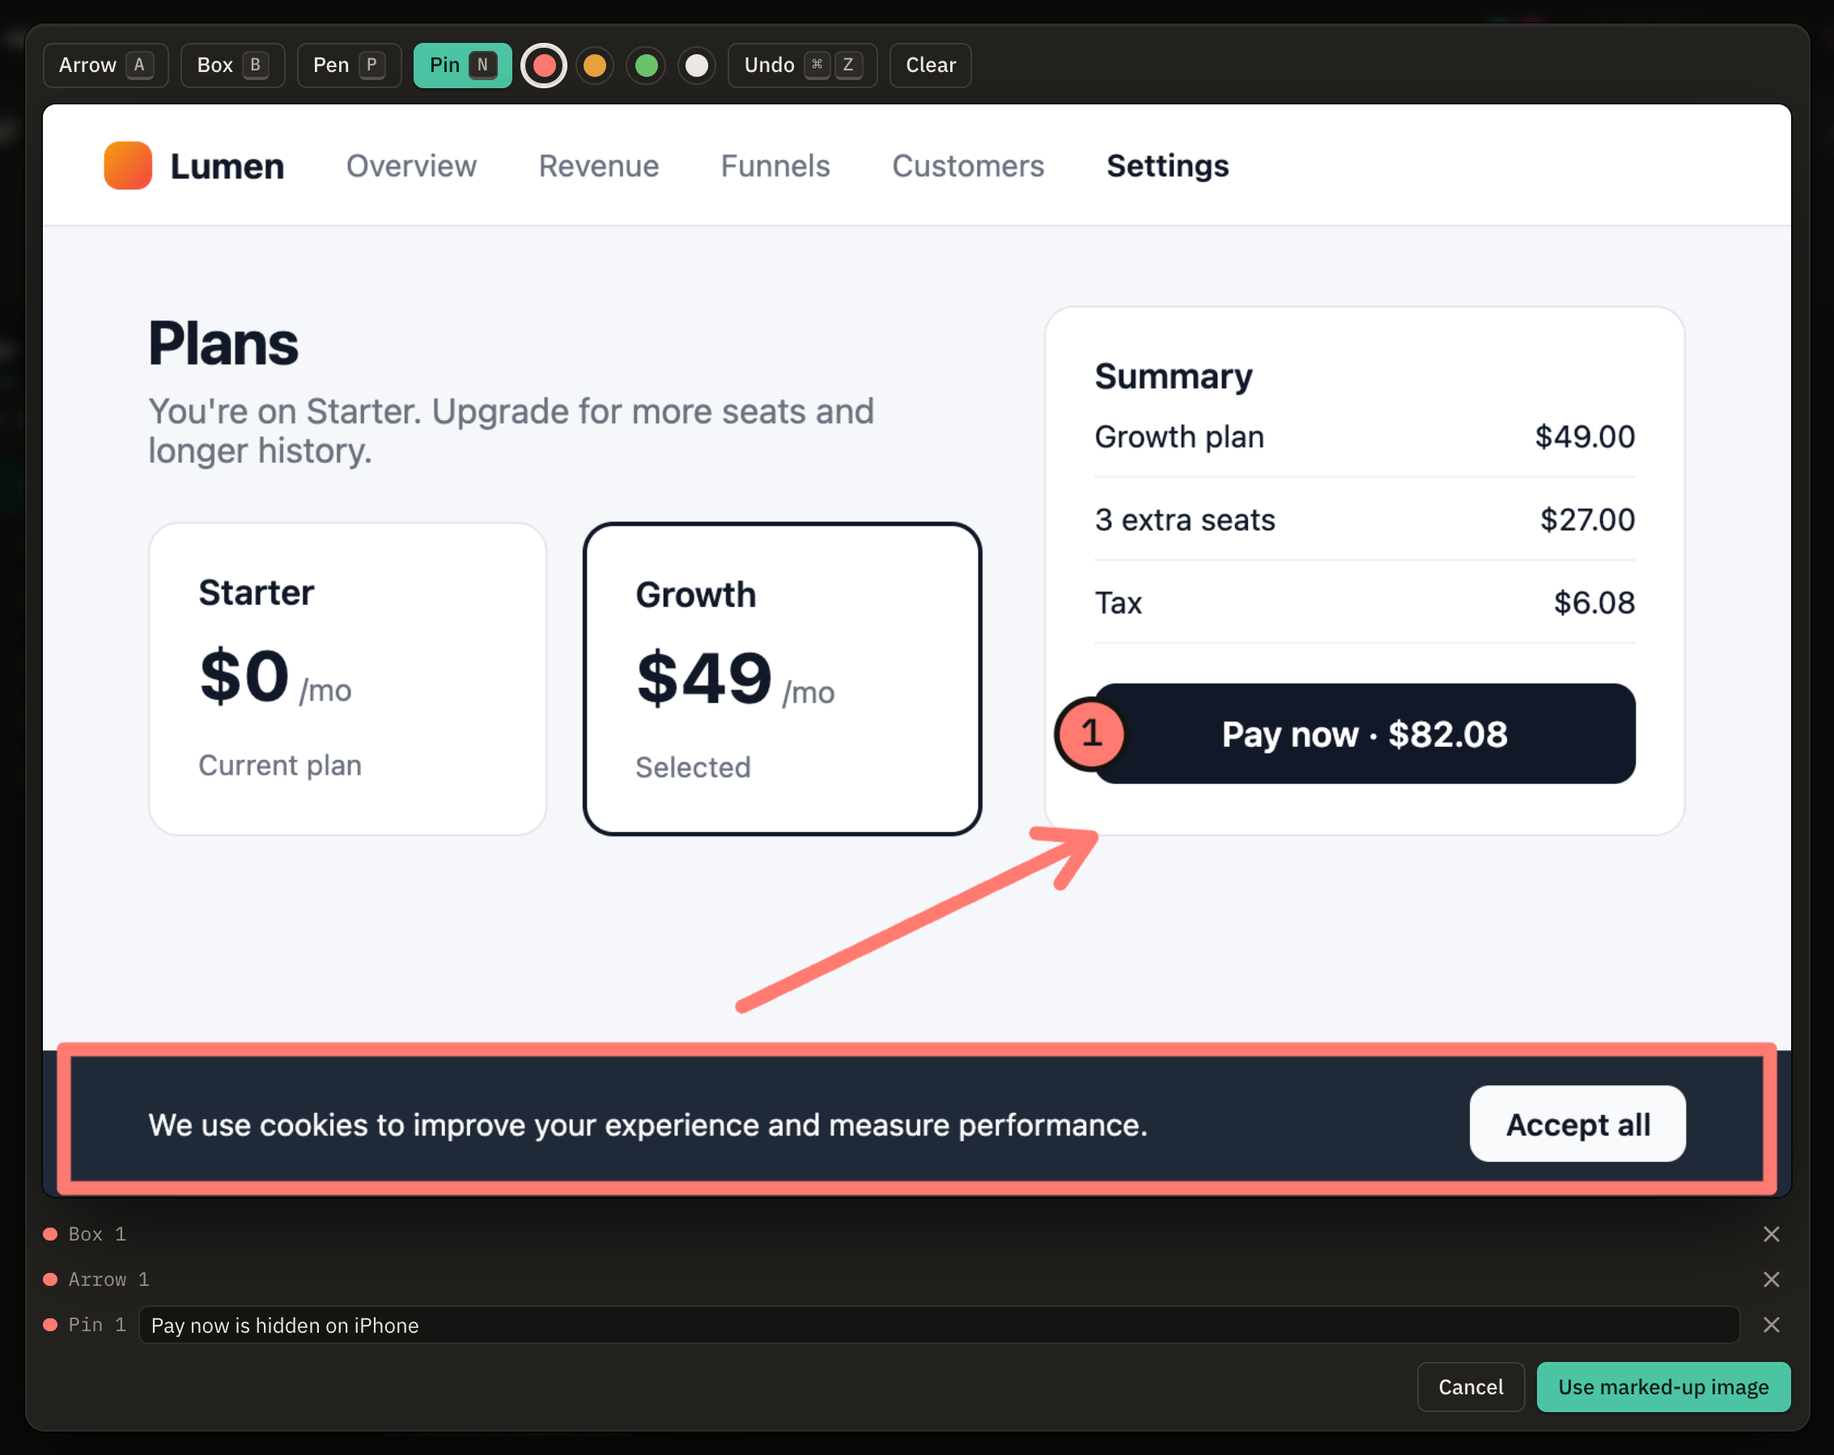
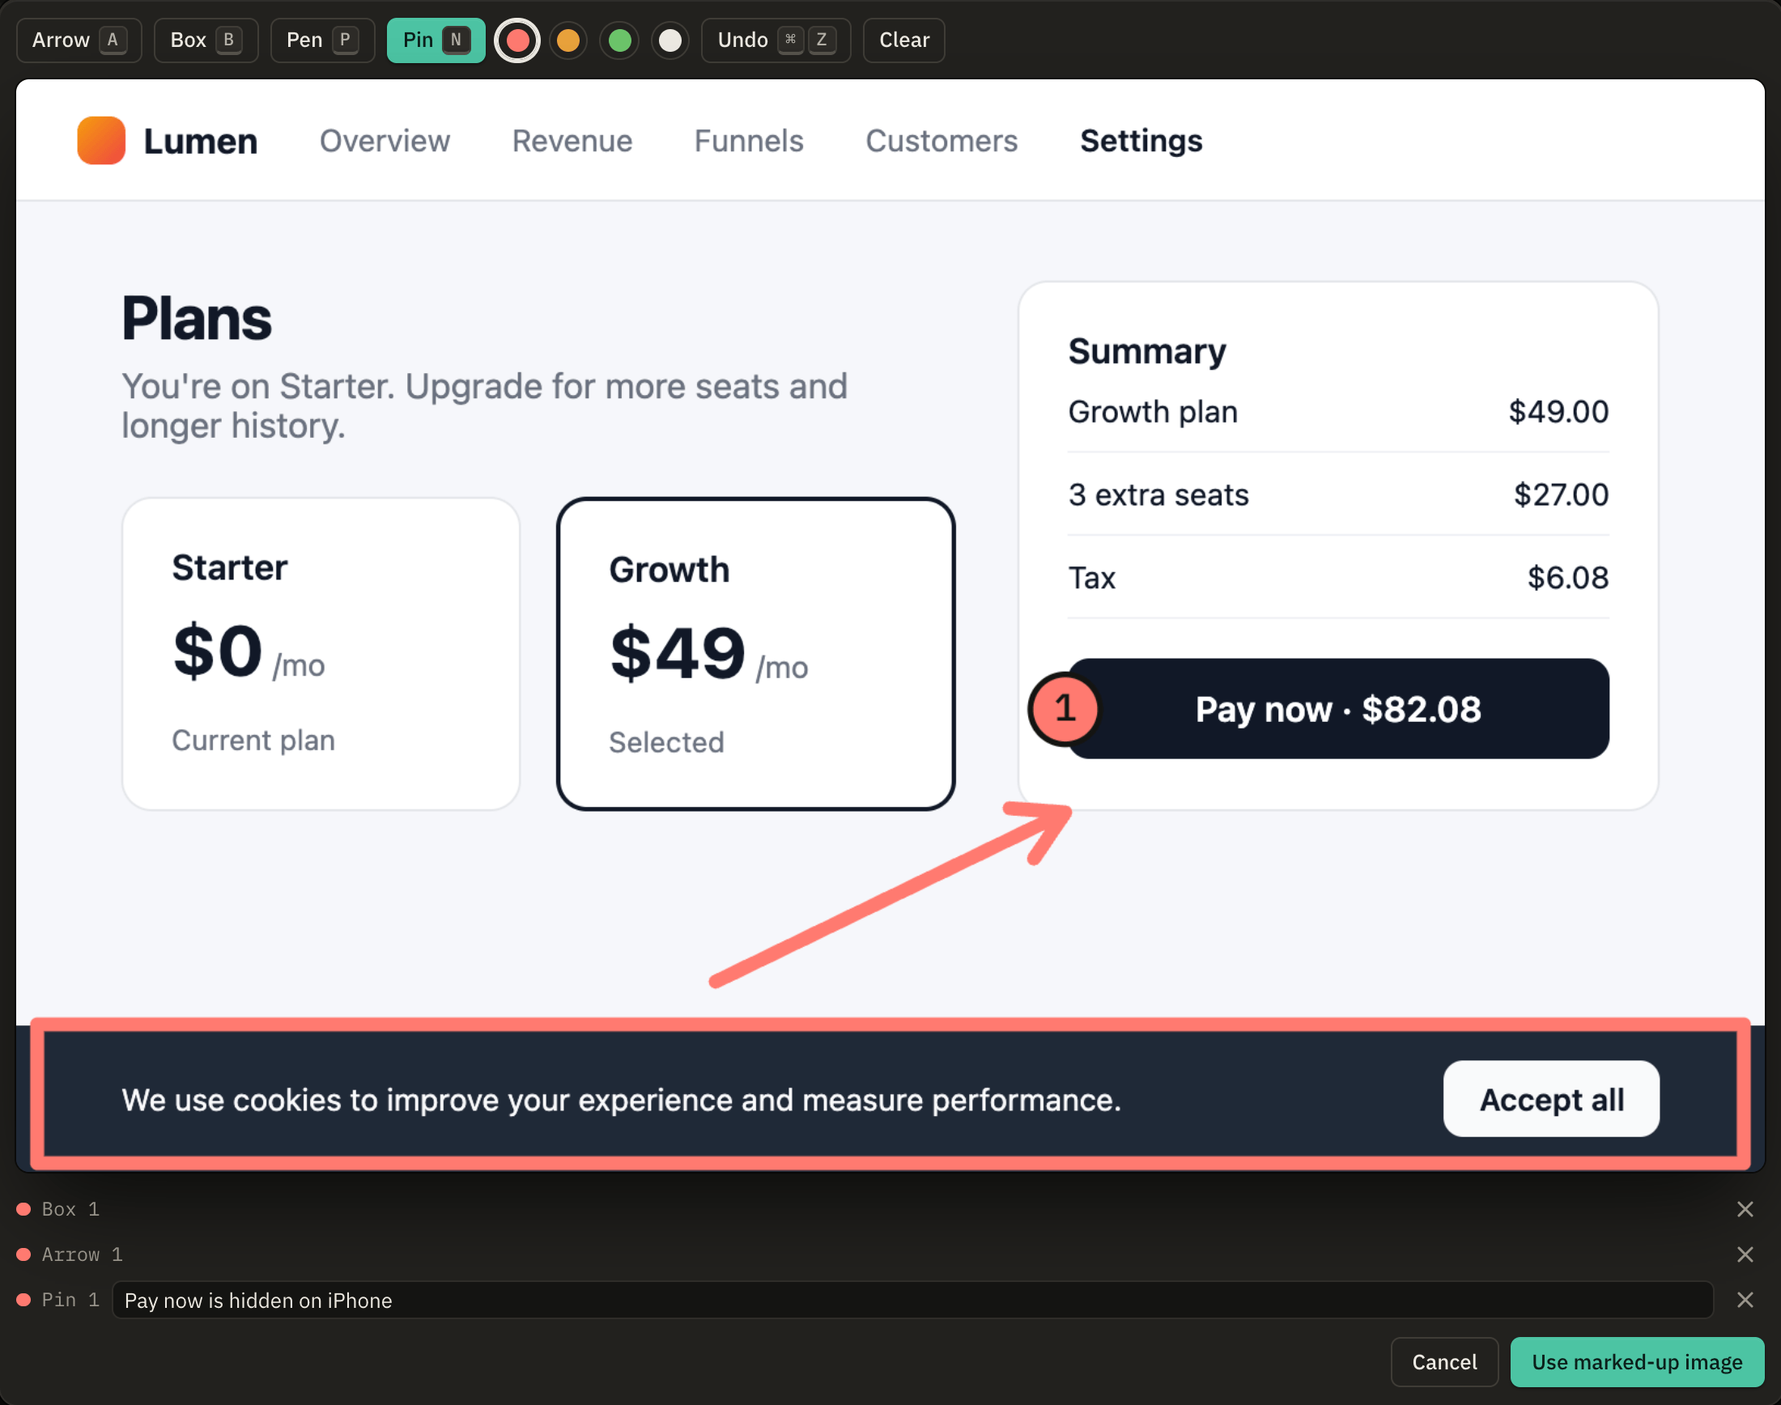
v2.0.2: public polish — contained hero, step crops, key grid, wrapped self-host code, status Not checked

diff --git a/src/components/landing/Hero.tsx b/src/components/landing/Hero.tsx
@@ -18,53 +18,43 @@ export function Hero({ theme }: { theme: ResolvedTheme }) {
         aria-hidden="true"
         className="mk-ruled pointer-events-none absolute inset-0 -z-10 opacity-40"
       />
-      <div
-        className={cn(
-          MK_CONTAINER,
-          'grid gap-y-14 pt-14 pb-16 sm:pt-20 lg:pb-24 xl:grid-cols-12 xl:items-center xl:gap-x-8 xl:pt-24 xl:pb-28',
-        )}
-      >
-        <div className="relative z-10 xl:col-span-5">
+      <div className={cn(MK_CONTAINER, 'pt-14 pb-16 sm:pt-20 lg:pb-24 xl:pt-24 xl:pb-28')}>
+        {/* Copy on top, the full product frame below it: the headline and the pitch sit side by side
+            from 1280px, so the screenshot can take the whole grid width and no control is cut. */}
+        <div className="grid gap-y-6 xl:grid-cols-12 xl:items-end xl:gap-x-8">
           <h1
             id="hero-heading"
-            className="text-[2.75rem]/[2.9rem] font-semibold tracking-[-0.035em] text-balance sm:text-display-m lg:text-display-l"
+            className="text-[2.75rem]/[2.9rem] font-semibold tracking-[-0.035em] text-balance sm:text-display-m lg:text-display-l xl:col-span-7"
           >
             Bug reports your cofounder actually reads.
           </h1>
-          <p className="mt-6 max-w-[44ch] text-read text-pretty text-ink-2 sm:text-lg sm:leading-8 2xl:mt-8 2xl:text-[1.2857rem] 2xl:leading-[2.1429rem]">
-            A bug tracker for teams of 2–10. Paste a screenshot, say what broke, press Enter: it is
-            on your teammate’s screen about a second later, and Claude Code can fix it from there.
-          </p>
-          <TypedSpecimenLabel delay={200} lines={HERO_LABEL} className="mt-8" />
-          <div className="mt-8 flex flex-wrap items-center gap-3">
-            <OpenWorkspaceLink size="lg" />
-            <a href="#self-host" className={buttonClass('secondary', 'lg')}>
-              Self-host it
-            </a>
+          <div className="xl:col-span-5 xl:pb-2">
+            <p className="max-w-[44ch] text-read text-pretty text-ink-2 sm:text-lg sm:leading-8 2xl:text-[1.2857rem] 2xl:leading-[2.1429rem]">
+              A bug tracker for teams of 2–10. Paste a screenshot, say what broke, press Enter: it
+              is on your teammate’s screen about a second later, and Claude Code can fix it from
+              there.
+            </p>
+            <div className="mt-8 flex flex-wrap items-center gap-3">
+              <OpenWorkspaceLink size="lg" />
+              <a href="#self-host" className={buttonClass('secondary', 'lg')}>
+                Self-host it
+              </a>
+            </div>
+            <SpecimenLabel
+              segments={[facts.license, 'Self-host on Supabase', 'No trackers']}
+              className="mt-6 text-ink-3"
+            />
           </div>
-          <SpecimenLabel
-            segments={[facts.license, 'Self-host on Supabase', 'No trackers']}
-            className="mt-6 text-ink-3"
-          />
         </div>
-        {/* Bleeds off the right edge: the bug list stays readable, the detail pane runs out of frame.
-            From 1280px the copy is centred on the shot so neither column leaves a dead block. */}
-        <div className="xl:col-span-7 xl:col-start-6">
-          <div
-            className="mk-rise w-[175%] sm:w-[130%] lg:w-[115%] xl:w-[64vw]"
-            style={{ '--mk-delay': '520ms' } as CSSProperties}
-          >
-            <DrawerFrame>
-              <ShotImage shot={HERO_SHOT} theme={theme} lazy={false} />
-            </DrawerFrame>
-          </div>
+        {/* The whole workspace, contained in the grid at every width: list, detail and controls. */}
+        <div className="mk-rise mt-14 lg:mt-20" style={{ '--mk-delay': '520ms' } as CSSProperties}>
+          {/* The specimen label of the bug open in the frame, pinned above it like a drawer tag. */}
+          <TypedSpecimenLabel delay={200} lines={HERO_LABEL} className="mb-4" />
+          <DrawerFrame>
+            <ShotImage shot={HERO_SHOT} theme={theme} lazy={false} />
+          </DrawerFrame>
         </div>
       </div>
-      {/* Fades the bleed so the screenshot runs out of frame instead of being cut mid-word. */}
-      <div
-        aria-hidden="true"
-        className="pointer-events-none absolute inset-y-0 right-0 z-10 w-16 bg-linear-to-l from-bg to-transparent sm:w-28"
-      />
     </section>
   )
 }

diff --git a/src/lib/statusChecks.ts b/src/lib/statusChecks.ts
@@ -1,7 +1,7 @@
 // Client-side reachability checks for the /status page: the app origin, the Supabase REST API
 // and a Supabase Realtime connection, each timed from this browser. Deliberately independent of
 // lib/supabase.ts (which throws without configuration), so the page works on a build without
-// Supabase settings and reports those two checks as not configured.
+// a real Supabase project and reports those two checks as not checked.
 
 export type CheckState = 'ok' | 'down' | 'unconfigured'
 
@@ -23,13 +23,36 @@ export const CHECK_TIMEOUT_MS = 8000
 type Clock = () => number
 const defaultClock: Clock = () => performance.now()
 
-/** The Supabase settings baked into this build, or nulls when they are missing or blank. */
+/**
+ * Settings that cannot point at a real project: CI's `ci-placeholder` values, or a supabase.co
+ * host whose project ref is not the 20 lowercase letters and digits Supabase assigns (the demo
+ * build's `demo.supabase.co`). Probing them would only ever fail, which is not an outage.
+ */
+export function isPlaceholderSupabase(url: string, key: string): boolean {
+  if (/placeholder/i.test(url) || /placeholder/i.test(key)) return true
+  let host: string
+  try {
+    host = new URL(url).hostname.toLowerCase()
+  } catch {
+    return true
+  }
+  if (!host.endsWith('.supabase.co')) return false
+  return !/^[a-z0-9]{20}$/.test(host.slice(0, -'.supabase.co'.length))
+}
+
+/**
+ * The Supabase settings baked into this build, or nulls when they are missing, blank or
+ * placeholders, so the page says it did not check instead of reporting a failure.
+ */
 export function statusConfig(
   env: Record<string, string | undefined>,
   appOrigin: string,
 ): StatusConfig {
   const url = env.VITE_SUPABASE_URL?.trim().replace(/\/+$/, '') || null
   const key = env.VITE_SUPABASE_ANON_KEY?.trim() || null
+  if (!url || !key || isPlaceholderSupabase(url, key)) {
+    return { appOrigin, supabaseUrl: null, anonKey: null }
+  }
   return { appOrigin, supabaseUrl: url, anonKey: key }
 }
 
@@ -87,7 +110,11 @@ export async function checkRest(
   now: Clock = defaultClock,
 ): Promise<CheckResult> {
   if (!config.supabaseUrl || !config.anonKey) {
-    return { state: 'unconfigured', ms: null, detail: 'This build has no Supabase settings' }
+    return {
+      state: 'unconfigured',
+      ms: null,
+      detail: 'This build has no Supabase project to check',
+    }
   }
   const { response, ms, error } = await timedFetch(
     `${config.supabaseUrl}/rest/v1/`,
@@ -135,7 +162,7 @@ export function checkRealtime(
     return Promise.resolve({
       state: 'unconfigured',
       ms: null,
-      detail: 'This build has no Supabase settings',
+      detail: 'This build has no Supabase project to check',
     })
   }
   return new Promise((resolve) => {

diff --git a/src/components/landing/Depth.tsx b/src/components/landing/Depth.tsx
@@ -84,13 +84,13 @@ function CopyBlock({ step }: { step: SelfHostStep }) {
 
   const shell = !step.command.includes('=')
   return (
-    // The button sits beside the code, not over it, so a long line scrolls under a fade instead
-    // of under the button.
+    // The button sits beside the code, not over it. Long lines wrap (never clip at 375px) with a
+    // hanging indent, so a continuation never reads as a new command or a new variable.
     <div className="mt-4 flex items-start rounded-lg border border-line bg-surface-1">
-      <pre className="mk-scroll-mask min-w-0 flex-1 overflow-x-auto py-3.5 pr-4 pl-4 text-sm leading-6 text-ink">
+      <pre className="min-w-0 flex-1 py-3.5 pr-2 pl-4 text-sm leading-6 whitespace-pre-wrap text-ink wrap-anywhere">
         <code>
           {step.command.split('\n').map((line) => (
-            <span key={line} className="block">
+            <span key={line} className="block pl-[2ch] -indent-[2ch]">
               {shell && (
                 <span aria-hidden="true" className="text-ink-3 select-none">
                   ${' '}
@@ -145,22 +145,24 @@ export function Depth() {
             </SectionHead>
           </Reveal>
           <Reveal delay={80}>
+            {/* Three columns at most: the 18 keys in the app fill every row at 2 and at 3 columns.
+                Each key sits in a fixed slot right before its label instead of across the cell. */}
             <ul
               aria-label="Keyboard shortcuts"
-              className="mt-10 grid grid-cols-1 border-t border-line sm:grid-cols-2 lg:grid-cols-3 xl:grid-cols-4"
+              className="mt-10 grid grid-cols-1 border-t border-line sm:grid-cols-2 sm:gap-x-10 lg:grid-cols-3"
             >
               {facts.shortcuts.map((shortcut) => (
                 <li
                   key={shortcut.label}
-                  className="flex min-h-12 items-center justify-between gap-4 border-b border-line py-2 sm:pr-6"
+                  className="grid min-h-12 grid-cols-[5rem_minmax(0,1fr)] items-center gap-4 border-b border-line py-2"
                 >
-                  <span className="text-sm text-ink-2">
-                    {shortcut.label.replace(/\s*\([^)]*\)/g, '')}
-                  </span>
-                  <span className="flex shrink-0 gap-1">
+                  <span className="flex justify-end gap-1">
                     {shortcut.keys.map((key, i) => (
                       <Kbd key={i}>{keyLabel(key)}</Kbd>
                     ))}
+                  </span>
+                  <span className="text-sm text-ink-2">
+                    {shortcut.label.replace(/\s*\([^)]*\)/g, '')}
                   </span>
                 </li>
               ))}

diff --git a/src/lib/statusChecks.test.ts b/src/lib/statusChecks.test.ts
@@ -4,13 +4,17 @@ import {
   checkApp,
   checkRealtime,
   checkRest,
+  isPlaceholderSupabase,
   realtimeUrl,
   statusConfig,
   type SocketLike,
 } from './statusChecks'
 
 const configured = statusConfig(
-  { VITE_SUPABASE_URL: 'https://abc.supabase.co/', VITE_SUPABASE_ANON_KEY: 'anon key' },
+  {
+    VITE_SUPABASE_URL: 'https://abcdefghijklmnopqrst.supabase.co/',
+    VITE_SUPABASE_ANON_KEY: 'anon key',
+  },
   'https://squash.test',
 )
 
@@ -51,7 +55,25 @@ describe('statusConfig', () => {
       supabaseUrl: null,
       anonKey: null,
     })
-    expect(configured.supabaseUrl).toBe('https://abc.supabase.co')
+    expect(configured.supabaseUrl).toBe('https://abcdefghijklmnopqrst.supabase.co')
+  })
+
+  it('treats placeholder settings as unconfigured, so nothing is probed', () => {
+    for (const [url, key] of [
+      ['https://ci-placeholder.supabase.co', 'ci-placeholder-anon-key'],
+      ['https://demo.supabase.co', 'demo'],
+      ['https://abcdefghijklmnopqrst.supabase.co', 'placeholder'],
+      ['not a url', 'key'],
+    ]) {
+      expect(isPlaceholderSupabase(url, key)).toBe(true)
+      expect(
+        statusConfig({ VITE_SUPABASE_URL: url, VITE_SUPABASE_ANON_KEY: key }, 'o'),
+      ).toMatchObject({ supabaseUrl: null, anonKey: null })
+    }
+    // A real project ref, a self-hosted instance and a custom domain are all probed.
+    expect(isPlaceholderSupabase('https://abcdefghijklmnopqrst.supabase.co', 'eyJ.a.b')).toBe(false)
+    expect(isPlaceholderSupabase('http://127.0.0.1:54321', 'eyJ.a.b')).toBe(false)
+    expect(isPlaceholderSupabase('https://db.example.com', 'sb_publishable_x')).toBe(false)
   })
 })
 
@@ -102,7 +124,7 @@ describe('checkRest', () => {
     expect(result).toEqual({
       state: 'unconfigured',
       ms: null,
-      detail: 'This build has no Supabase settings',
+      detail: 'This build has no Supabase project to check',
     })
     expect(fetchImpl).not.toHaveBeenCalled()
   })
@@ -115,7 +137,7 @@ describe('checkRest', () => {
       detail: 'Answered HTTP 401',
     })
     expect(fetchImpl).toHaveBeenCalledWith(
-      'https://abc.supabase.co/rest/v1/',
+      'https://abcdefghijklmnopqrst.supabase.co/rest/v1/',
       expect.objectContaining({ headers: { apikey: 'anon key' } }),
     )
     expect(
@@ -127,7 +149,7 @@ describe('checkRest', () => {
 describe('checkRealtime', () => {
   it('builds the websocket URL with an encoded key', () => {
     expect(realtimeUrl(configured)).toBe(
-      'wss://abc.supabase.co/realtime/v1/websocket?apikey=anon%20key&vsn=1.0.0',
+      'wss://abcdefghijklmnopqrst.supabase.co/realtime/v1/websocket?apikey=anon%20key&vsn=1.0.0',
     )
   })
 

diff --git a/src/pages/Status.tsx b/src/pages/Status.tsx
@@ -47,12 +47,13 @@ type Results = Partial<Record<CheckDef['id'], CheckResult>>
 const STATE_LABEL: Record<CheckResult['state'] | 'checking', string> = {
   ok: 'Reachable',
   down: 'Not reachable',
-  unconfigured: 'Not configured',
+  unconfigured: 'Not checked',
   checking: 'Checking…',
 }
 
 function Glyph({ state }: { state: CheckResult['state'] | 'checking' }) {
-  // Status glyphs from the app: hollow ring (pending), filled check (ok), cross (down).
+  // Status glyphs from the app: dashed ring (checking), filled check (ok), cross (down); a ring
+  // with a dash is "not checked", neutral rather than red, since nothing was probed.
   if (state === 'ok') {
     return (
       <svg viewBox="0 0 16 16" className="size-4 text-success" aria-hidden="true">
@@ -92,6 +93,9 @@ function Glyph({ state }: { state: CheckResult['state'] | 'checking' }) {
         strokeWidth="1.5"
         strokeDasharray={state === 'checking' ? '3 2.5' : undefined}
       />
+      {state === 'unconfigured' && (
+        <path d="M5.5 8h5" stroke="currentColor" strokeWidth="1.5" strokeLinecap="round" />
+      )}
     </svg>
   )
 }
@@ -102,8 +106,7 @@ function summary(results: Results, running: boolean): string {
   const down = values.filter((r) => r.state === 'down').length
   const skipped = values.filter((r) => r.state === 'unconfigured').length
   if (down === 0 && skipped === 0) return 'Everything answered.'
-  if (down === 0)
-    return `Reachable. ${skipped} of ${CHECKS.length} checks are not configured on this build.`
+  if (down === 0) return `Reachable. ${skipped} of ${CHECKS.length} not checked on this build.`
   return `${down} of ${CHECKS.length} ${down === 1 ? 'check' : 'checks'} failed from your browser.`
 }
 

diff --git a/src/pages/MarketingPages.test.tsx b/src/pages/MarketingPages.test.tsx
@@ -183,7 +183,7 @@ describe('marketing pages', () => {
 })
 
 describe('status page', () => {
-  it('degrades to "not configured" without Supabase settings and still times the app', async () => {
+  it('degrades to a neutral "not checked" without Supabase settings and still times the app', async () => {
     vi.stubEnv('VITE_SUPABASE_URL', '')
     vi.stubEnv('VITE_SUPABASE_ANON_KEY', '')
     const fetchMock = vi.fn(
@@ -193,11 +193,11 @@ describe('status page', () => {
     const { container } = renderAt('/status', '/status', Status)
     expect(container.textContent).toMatch(/checked from your browser/i)
     await waitFor(() => expect(screen.getByRole('button', { name: 'Check again' })).toBeEnabled())
-    expect(screen.getAllByText('Not configured')).toHaveLength(2)
+    expect(screen.getAllByText('Not checked')).toHaveLength(2)
     expect(screen.getByText('Reachable')).toBeInTheDocument()
     expect(
-      screen.getByRole('heading', { level: 2, name: /not configured on this build/ }),
-    ).toBeInTheDocument()
+      screen.getByRole('heading', { level: 2, name: /2 of 3 not checked on this build/ }),
+    ).not.toHaveClass('text-danger')
     // Only the app's own origin was contacted.
     expect(fetchMock).toHaveBeenCalledTimes(1)
     expect(String(fetchMock.mock.calls[0][0])).toMatch(/\/manifest\.webmanifest$/)

diff --git a/src/components/landing/content.ts b/src/components/landing/content.ts
@@ -68,8 +68,9 @@ export const CHAPTERS: Chapter[] = [
       alt: 'The capture bar holding a typed description and an attached screenshot, above the live bug list',
     },
     marker: {
-      d: 'M262 48 C 520 40, 900 42, 1142 50 C 1150 96, 1148 150, 1140 188 C 900 194, 520 192, 266 186 C 258 140, 256 96, 266 44',
-      label: 'The capture bar',
+      // Rings the typed description and the pasted screenshot's thumbnail, not the empty input.
+      d: 'M80 62 C 200 52, 380 54, 490 60 C 498 100, 496 148, 488 180 C 380 188, 200 186, 84 180 C 76 142, 74 100, 86 56',
+      label: 'The description and the pasted screenshot',
     },
   },
   {
@@ -87,11 +88,12 @@ export const CHAPTERS: Chapter[] = [
       name: 'annotate',
       themed: true,
       width: 1400,
-      height: 1111,
+      height: 1105,
       alt: 'The mark-up editor over a checkout page: a red box around a cookie banner and an arrow pointing at the Pay now button',
     },
     marker: {
-      d: 'M58 72 C 52 40, 300 34, 308 64 C 314 98, 70 104, 56 78 C 50 62, 110 44, 190 44',
+      // Underlines the Arrow, Box and Pen buttons, which sit flush with the top of the crop.
+      d: 'M16 56 C 90 52, 200 58, 292 54',
       label: 'The arrow, box and pen tools',
     },
   },

diff --git a/src/index.css b/src/index.css
@@ -419,8 +419,10 @@
 /* Public pages (marketing, legal, sign-in) set their mono micro-labels on paper grain and the
    lamp gradient. The grain darkens the paper by up to ~7%, which takes the app's --text-3 from
    4.9:1 to 4.3:1, so these pages use a deeper tertiary ink: 5.3:1 on --bg under 7% grain,
-   4.9:1 on --surface-3 under 7% grain. The darkroom's --text-3 already clears 5:1 with grain. */
+   4.9:1 on --surface-3 under 7% grain. The darkroom's --text-3 already clears 5:1 with grain.
+   Their tracked mono labels (stat captions, footer legend) are set at 12px, not the app's 11px. */
 @utility public-ink {
+  --text-label: 0.8571rem;
   :root:not(.dark) & {
     --text-3: #605b52;
   }

diff --git a/src/pages/Landing.test.tsx b/src/pages/Landing.test.tsx
@@ -147,7 +147,7 @@ describe('Landing', () => {
     const intrinsic: Record<string, [number, number]> = {
       workspace: [1600, 1000],
       capture: [1400, 544],
-      annotate: [1400, 1111],
+      annotate: [1400, 1105],
       claude: [1400, 710],
     }
     for (const img of images) {
